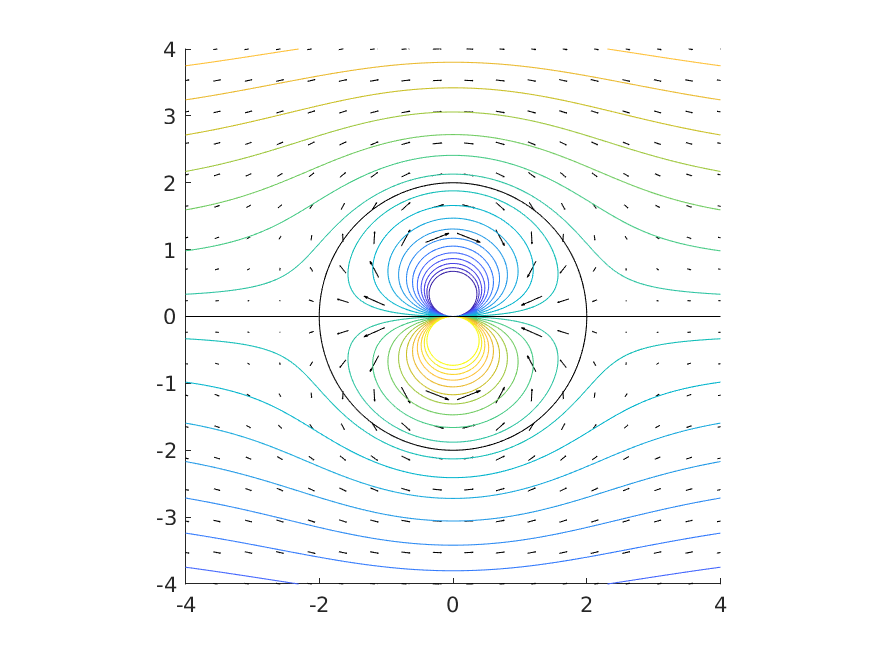
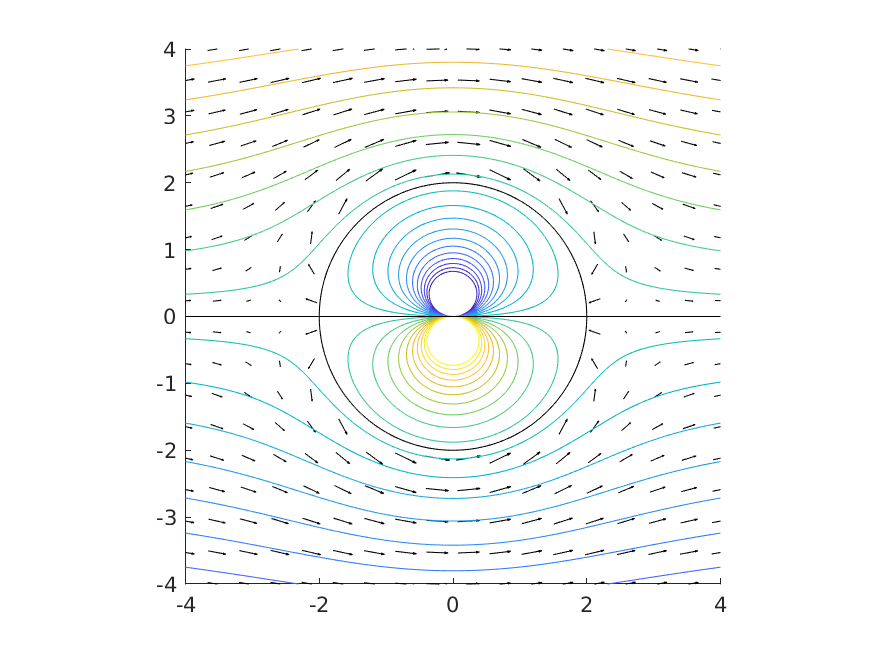
Add more as11 edits

diff --git a/as11/hw.tex b/as11/hw.tex
@@ -559,11 +559,11 @@ and hence
     .
 \end{align*}
 %
-The resulting flow is plotted in Figure~\ref{fig:mt-2}. In this
-figure, the streamline $\psi = 0$ is plotted in black, and we can
-see that it aligns perfectly with the circle $|z| = 2$. Note also that
-velocity quivers at $|z| < 1$ where not plotted, due to their large
-magnitude near the origin.
+The resulting flow is plotted in Figure~\ref{fig:mt-2}. In this figure,
+the streamline $\psi = 0$ is plotted in black, and we can see that it
+aligns perfectly with the circle $|z| = 2$. Note also that velocity
+quivers at $|z| < 2$ were not plotted, as this isn't part of the flow of
+interest.
 %
 \begin{figure}[ht]
     \includegraphics[width=35em]{mt_ex1_2}
@@ -640,9 +640,9 @@ Hence we would expect that a ping pong ball placed in the centre of the
 double hair dryer flow will stay in the centre.
 
 What if we offset the ping pong ball so it wasn't exactly in the centre
-of the double hair dryer flow? Let's offset the ball (or, equivalently, the
-double hair dryer flow) by $0.1$ units horizontally. We can model this by
-generating a new potential $\Phi_{mt2}$ given by
+of the double hair dryer flow? Let's offset the ball by $\Delta x =
+0.1$ units (horizontally to the right). We can model this by generating a
+new potential $\Phi_{mt2}$ given by
 %
 \begin{equation*}
     \Phi_{mt2}(z) = (z + 0.1)^2 + \del{\frac{1}{z} + 0.1}^2
@@ -688,10 +688,10 @@ Hence we have that
     .
 \end{align*}
 %
-So it would appear that the ping bong ball is being away from
-centre double hair dryer flow with this offset.
+So it would appear that the ping bong ball is being pushed away from the
+centre of the double hair dryer flow with this offset.
 
-Before moving on to single hair dryer flow, let's consider any offset
+Before moving on to the single hair dryer flow, let's consider any offset
 $\tiz \in \C$ and see whether the centre of the flow is stable with
 respect to this offset. In this case, our potential $\Phi_{mt3}$ will be
 given by
@@ -703,7 +703,7 @@ given by
 %
 Expressing $\tiz = \tix + i \tiy$ we have that (omitting the whole
 calculation for brevity; the steps are identical to what we did with the
-$0.1$ horizontal offset)
+$\Delta x = 0.1$ horizontal offset)
 %
 \begin{equation*}
     \res_{z = 0} \del{\Phi^\prime_{mt3}}^2 = -8 (\tix + i \tiy)
@@ -717,7 +717,7 @@ and so
         &\to \del{i \frac{\rho_0}{2} \oint_{\partial B} \del{\Phi_{mt3}^\prime(z)}^2 \dif z}^* \\
         &= \del{i \frac{\rho_0}{2} 2 \pi i \res_{z = 0} \sbr{\del{\Phi^\prime_{mt3}}^2}}^* \\
         &= \del{i \frac{\rho_0}{2} 2 \pi i (- 8 (\tix + i \tiy)}^* \\
-        &= 8 \rho_0 \pi (\tix - \tiy)
+        &= 8 \rho_0 \pi (\tix - i \tiy)
     .
 \end{align*}
 %

diff --git a/as11/code/mt_ex1-2.m b/as11/code/mt_ex1-2.m
@@ -30,8 +30,10 @@ clf
 hold on
 
 % Quivers - plotting twice makes symmetrically-placed arrows
-quiver(x,y,uu.*(rr>=1),vv.*(rr>=1),0.3,'k')
-quiver(x,y,-uu.*(rr>=1),-vv.*(rr>=1),0.3,'k.')
+quiv_condition = rr>=4.3;
+
+quiver(x,y,uu.*quiv_condition,vv.*quiv_condition,0.3,'k')
+quiver(x,y,-uu.*quiv_condition,-vv.*quiv_condition,0.3,'k.')
 
 % Axes
 axis([-L +L -L +L]);
